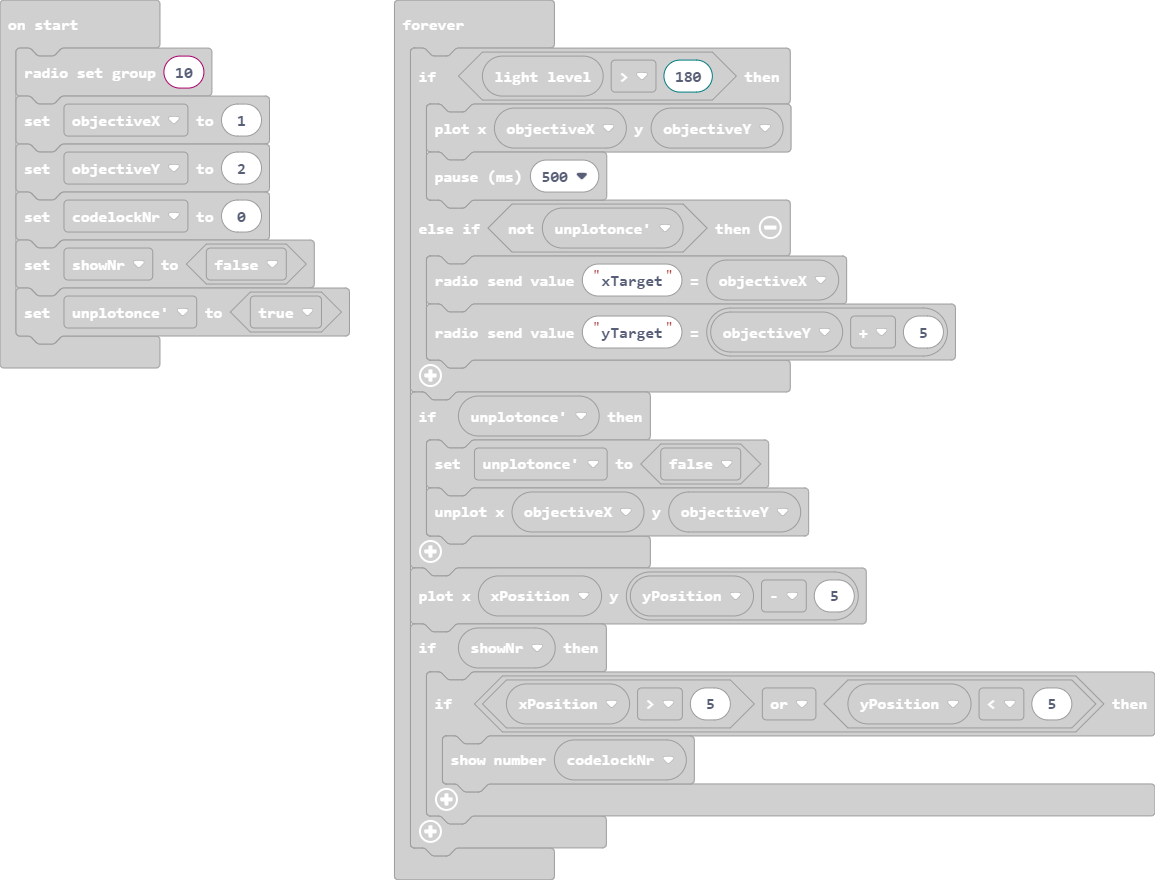
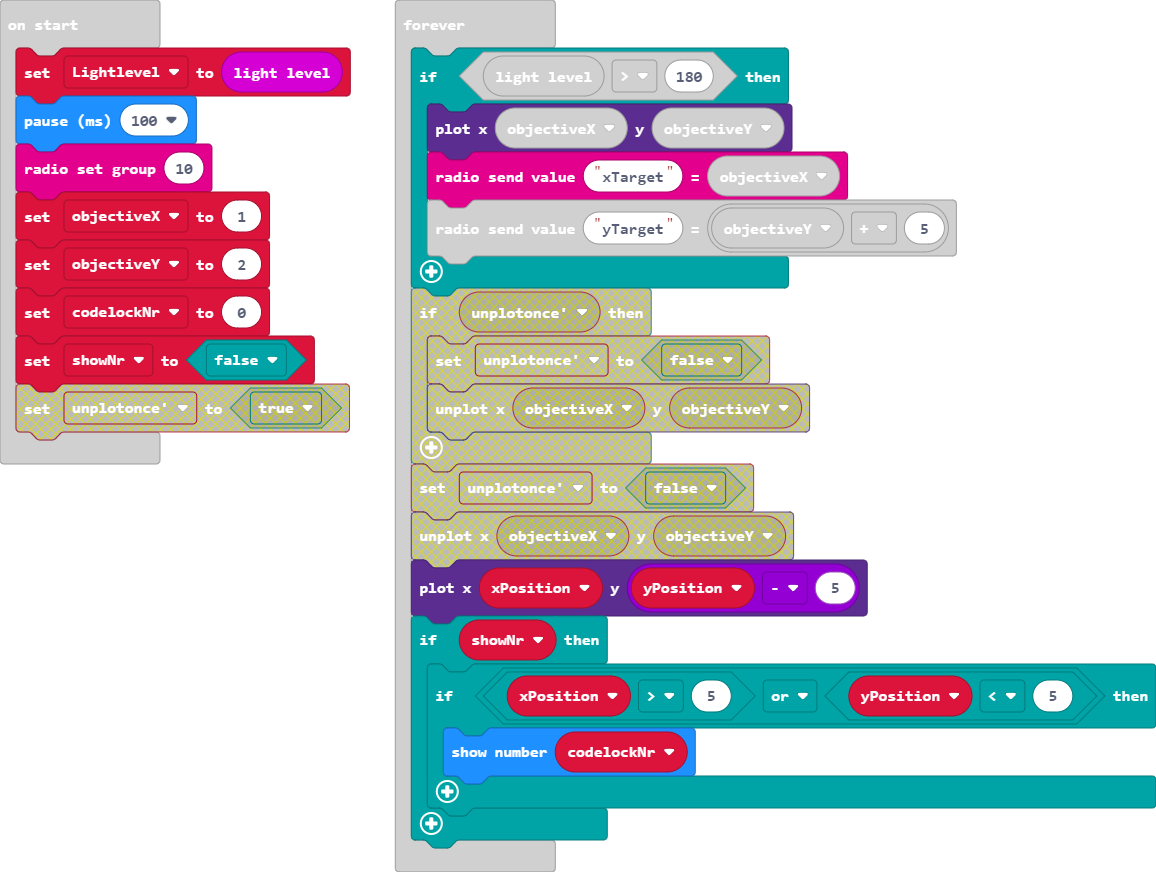
Update main.blocks, main.ts

diff --git a/main.ts b/main.ts
@@ -18,23 +18,18 @@ let yPosition = 0
 let xPosition = 0
 let showNr = false
 let codelockNr = 0
+let Lightlevel = input.lightLevel()
+basic.pause(100)
 radio.setGroup(10)
 let objectiveX = 1
 let objectiveY = 2
 codelockNr = 0
 showNr = false
-let unplotonce = true
 basic.forever(function () {
     if (input.lightLevel() > 180) {
         led.plot(objectiveX, objectiveY)
-        basic.pause(500)
-    } else if (!(unplotonce)) {
         radio.sendValue("xTarget", objectiveX)
         radio.sendValue("yTarget", objectiveY + 5)
-    }
-    if (unplotonce) {
-        unplotonce = false
-        led.unplot(objectiveX, objectiveY)
     }
     led.plot(xPosition, yPosition - 5)
     if (showNr) {
